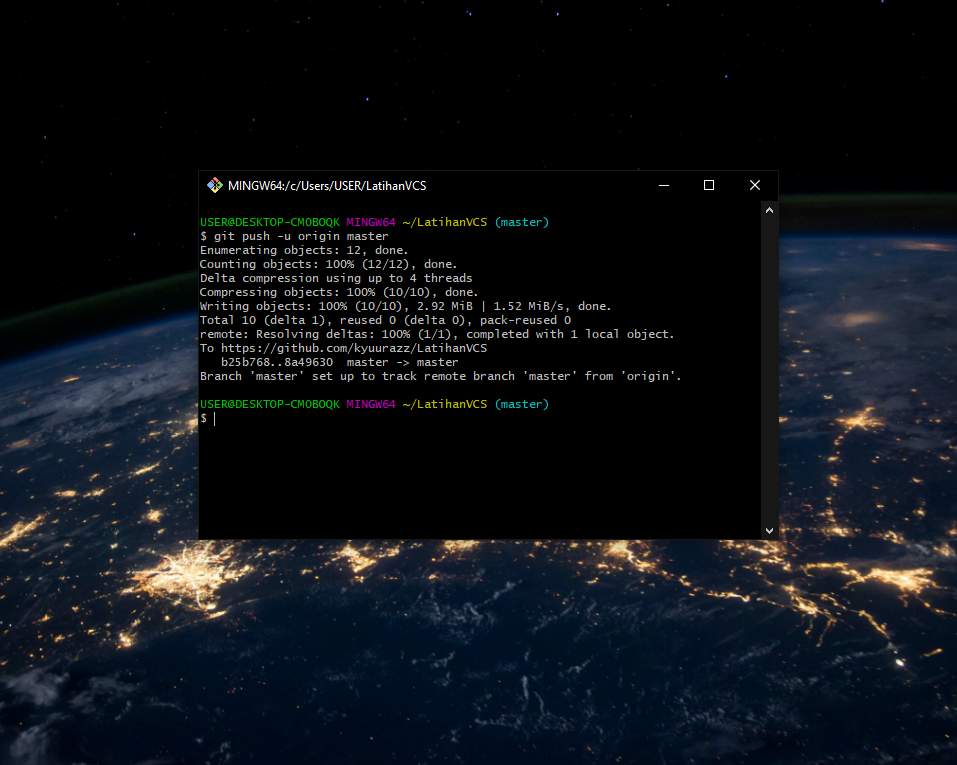
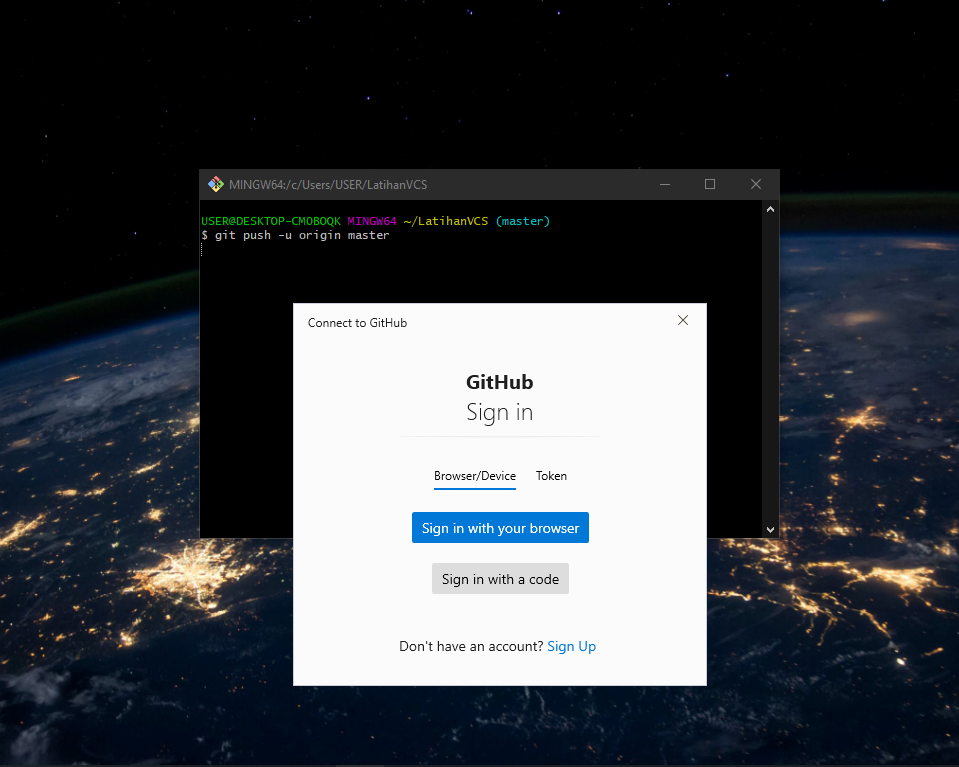
Revisi

diff --git a/README.md b/README.md
@@ -34,27 +34,27 @@ Username dan Email. Jalankan perintah berikut:
 > git config --global user.name "username"
 > git config --global user.email "email"
 ```
-![Gambar 1](Screenshots/Screenshot (1).png)
+![Gambar 1](Screenshots/ss1.png)
 
 - Jalankan perintah git init. untuk membuat repository local
 ```bash
 > git init
 ```
-![Gambar 2](Screenshots/Screenshot (2).png)
+![Gambar 2](Screenshots/ss2.png)
 
 - Untuk membuat file dapat menggunakan Text Editor, Lalu menyimpan
 filenya pada repository. Sebagai contoh disini saya akan membuat file README.md dengan perintah berikut
 ```bash
 > echo "# Latihan1" >> README.md
 ```
-![Gambar 3](Screenshots/Screenshot (3).png)
+![Gambar 3](Screenshots/ss3.png)
 
 - Untuk menambahkan file yang sudah kita buat, gunakan perintah git add (Nama File) atau bisa menggunakan git add . (Jika file nya ada banyak)
 ```bash
 > git add README.md
 > git add .
 ```
-![Gambar 4](Screenshots/Screenshot (4).png)
+![Gambar 4](Screenshots/ss4.png)
 
 - Untuk menyimpan perubahan yang ada kedalam database repository
 local, gunakan perintah git commit -m "nama project"
@@ -62,20 +62,26 @@ local, gunakan perintah git commit -m "nama project"
 ```bash
 > git commit -m "First Project"
 ```
-![Gambar 5](Screenshots/Screenshot (5).png)
+![Gambar 5](Screenshots/ss5.png)
 
 - Untuk menyimpan setiap perubahan pada repository local, gunakan perintah git remote add origin (url)
 ```bash
 > git remote add origin https://github.com/kyuurazz/LatihanVCS.git
 ```
-![Gambar 6](Screenshots/Screenshot (6).png)
+![Gambar 6](Screenshots/ss6.png)
 
 - Untuk mengirim perubahan pada repository local ke server, gunakan perintah git push
-- Perintah ini akan meminta Username dan Password pada akun github mu
+- Perintah ini akan meminta Username dan Password pada akun github mu atau klik Sign in with your browser
 ```bash
 > git push -u origin master
 ```
-![Gambar 7](Screenshots/Screenshot (7).png)
+![Gambar 7](Screenshots/ss7.png)
+
+- Jika sudah berhasil, maka tampilan nya akan seperti dibawah ini
+![Gambar 8](Screenshots/ss8.png)
+
+- Dan file sudah berhasil di upload ke Github anda
+![Gambar 9](Screenshots/ss9.png)
 
 - Selesai
 
